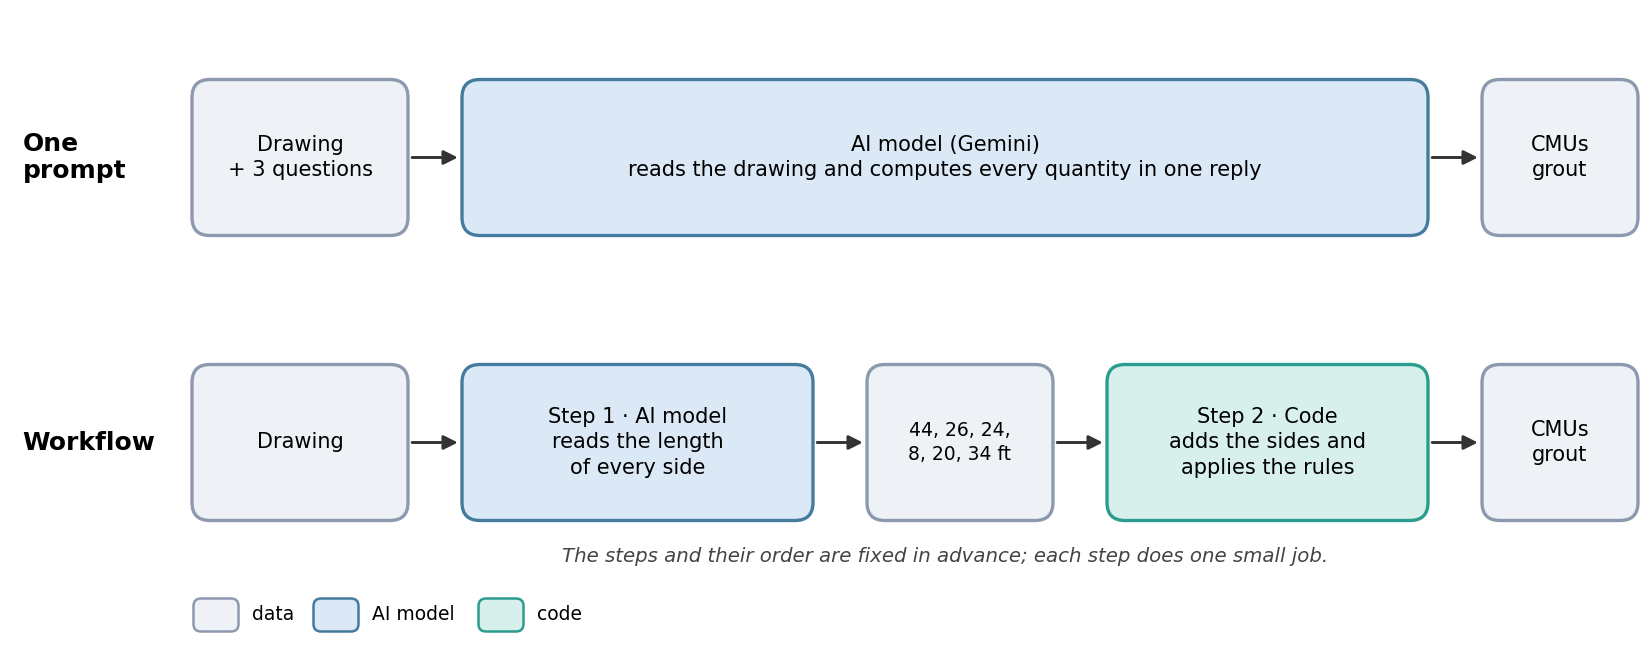
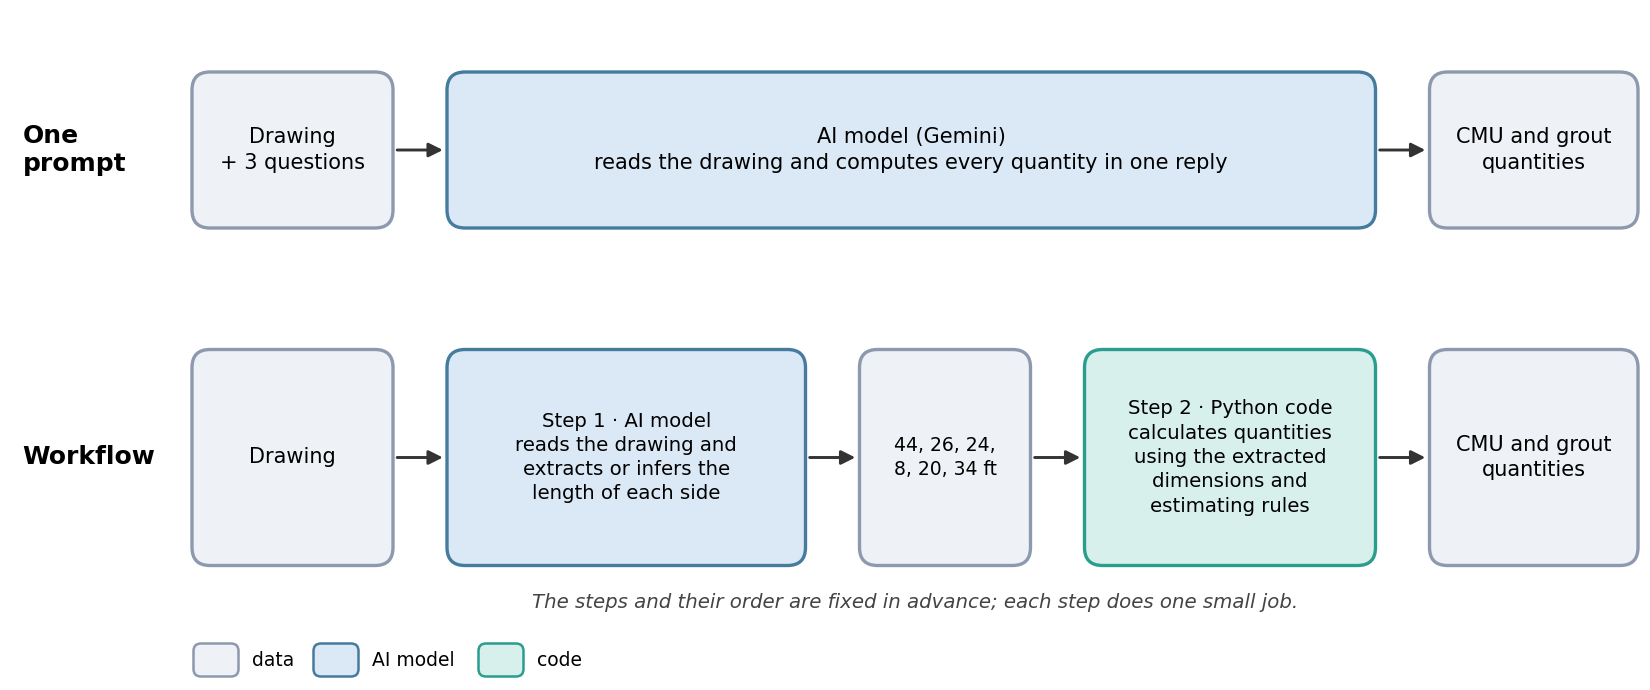
MP8 Part 1 diagram: step 1 reads the drawing and extracts or infers each side, step 2 is Python code with the estimating rules, outputs are CMU and grout quantities

diff --git a/mp8_agents/build/make_figures.py b/mp8_agents/build/make_figures.py
@@ -54,22 +54,22 @@ def save(fig, name):
 
 
 def workflow():
-    fig, ax = canvas(11, 4.3)
-    ax.text(0.15, 3.25, "One\nprompt", fontsize=12, weight="bold", va="center", family=FONT)
-    box(ax, 1.3, 2.75, 2.7, 3.75, "Drawing\n+ 3 questions")
-    box(ax, 3.1, 2.75, 9.5, 3.75, "AI model (Gemini)\nreads the drawing and computes every quantity in one reply", "model")
-    box(ax, 9.9, 2.75, 10.9, 3.75, "CMUs\ngrout")
-    arrow(ax, (2.72, 3.25), (3.08, 3.25)); arrow(ax, (9.52, 3.25), (9.88, 3.25))
+    fig, ax = canvas(11, 4.6)
+    ax.text(0.15, 3.6, "One\nprompt", fontsize=12, weight="bold", va="center", family=FONT)
+    box(ax, 1.3, 3.1, 2.6, 4.1, "Drawing\n+ 3 questions")
+    box(ax, 3.0, 3.1, 9.15, 4.1, "AI model (Gemini)\nreads the drawing and computes every quantity in one reply", "model")
+    box(ax, 9.55, 3.1, 10.9, 4.1, "CMU and grout\nquantities")
+    arrow(ax, (2.62, 3.6), (2.98, 3.6)); arrow(ax, (9.17, 3.6), (9.53, 3.6))
 
-    ax.text(0.15, 1.35, "Workflow", fontsize=12, weight="bold", va="center", family=FONT)
-    box(ax, 1.3, 0.85, 2.7, 1.85, "Drawing")
-    box(ax, 3.1, 0.85, 5.4, 1.85, "Step 1 · AI model\nreads the length\nof every side", "model")
-    box(ax, 5.8, 0.85, 7.0, 1.85, "44, 26, 24,\n8, 20, 34 ft", size=9)
-    box(ax, 7.4, 0.85, 9.5, 1.85, "Step 2 · Code\nadds the sides and\napplies the rules", "code")
-    box(ax, 9.9, 0.85, 10.9, 1.85, "CMUs\ngrout")
-    for a, b in ((2.72, 3.08), (5.42, 5.78), (7.02, 7.38), (9.52, 9.88)):
-        arrow(ax, (a, 1.35), (b, 1.35))
-    ax.text(6.3, 0.55, "The steps and their order are fixed in advance; each step does one small job.", ha="center", fontsize=9.5,
+    ax.text(0.15, 1.55, "Workflow", fontsize=12, weight="bold", va="center", family=FONT)
+    box(ax, 1.3, 0.85, 2.6, 2.25, "Drawing")
+    box(ax, 3.0, 0.85, 5.35, 2.25, "Step 1 · AI model\nreads the drawing and\nextracts or infers the\nlength of each side", "model", size=9.5)
+    box(ax, 5.75, 0.85, 6.85, 2.25, "44, 26, 24,\n8, 20, 34 ft", size=9)
+    box(ax, 7.25, 0.85, 9.15, 2.25, "Step 2 · Python code\ncalculates quantities\nusing the extracted\ndimensions and\nestimating rules", "code", size=9.5)
+    box(ax, 9.55, 0.85, 10.9, 2.25, "CMU and grout\nquantities")
+    for a, b in ((2.62, 2.98), (5.37, 5.73), (6.87, 7.23), (9.17, 9.53)):
+        arrow(ax, (a, 1.55), (b, 1.55))
+    ax.text(6.1, 0.55, "The steps and their order are fixed in advance; each step does one small job.", ha="center", fontsize=9.5,
             style="italic", color="#444", family=FONT)
     legend(ax, 1.3, 0.1, [("data", "data"), ("AI model", "model"), ("code", "code")])
     save(fig, "workflow.png")
